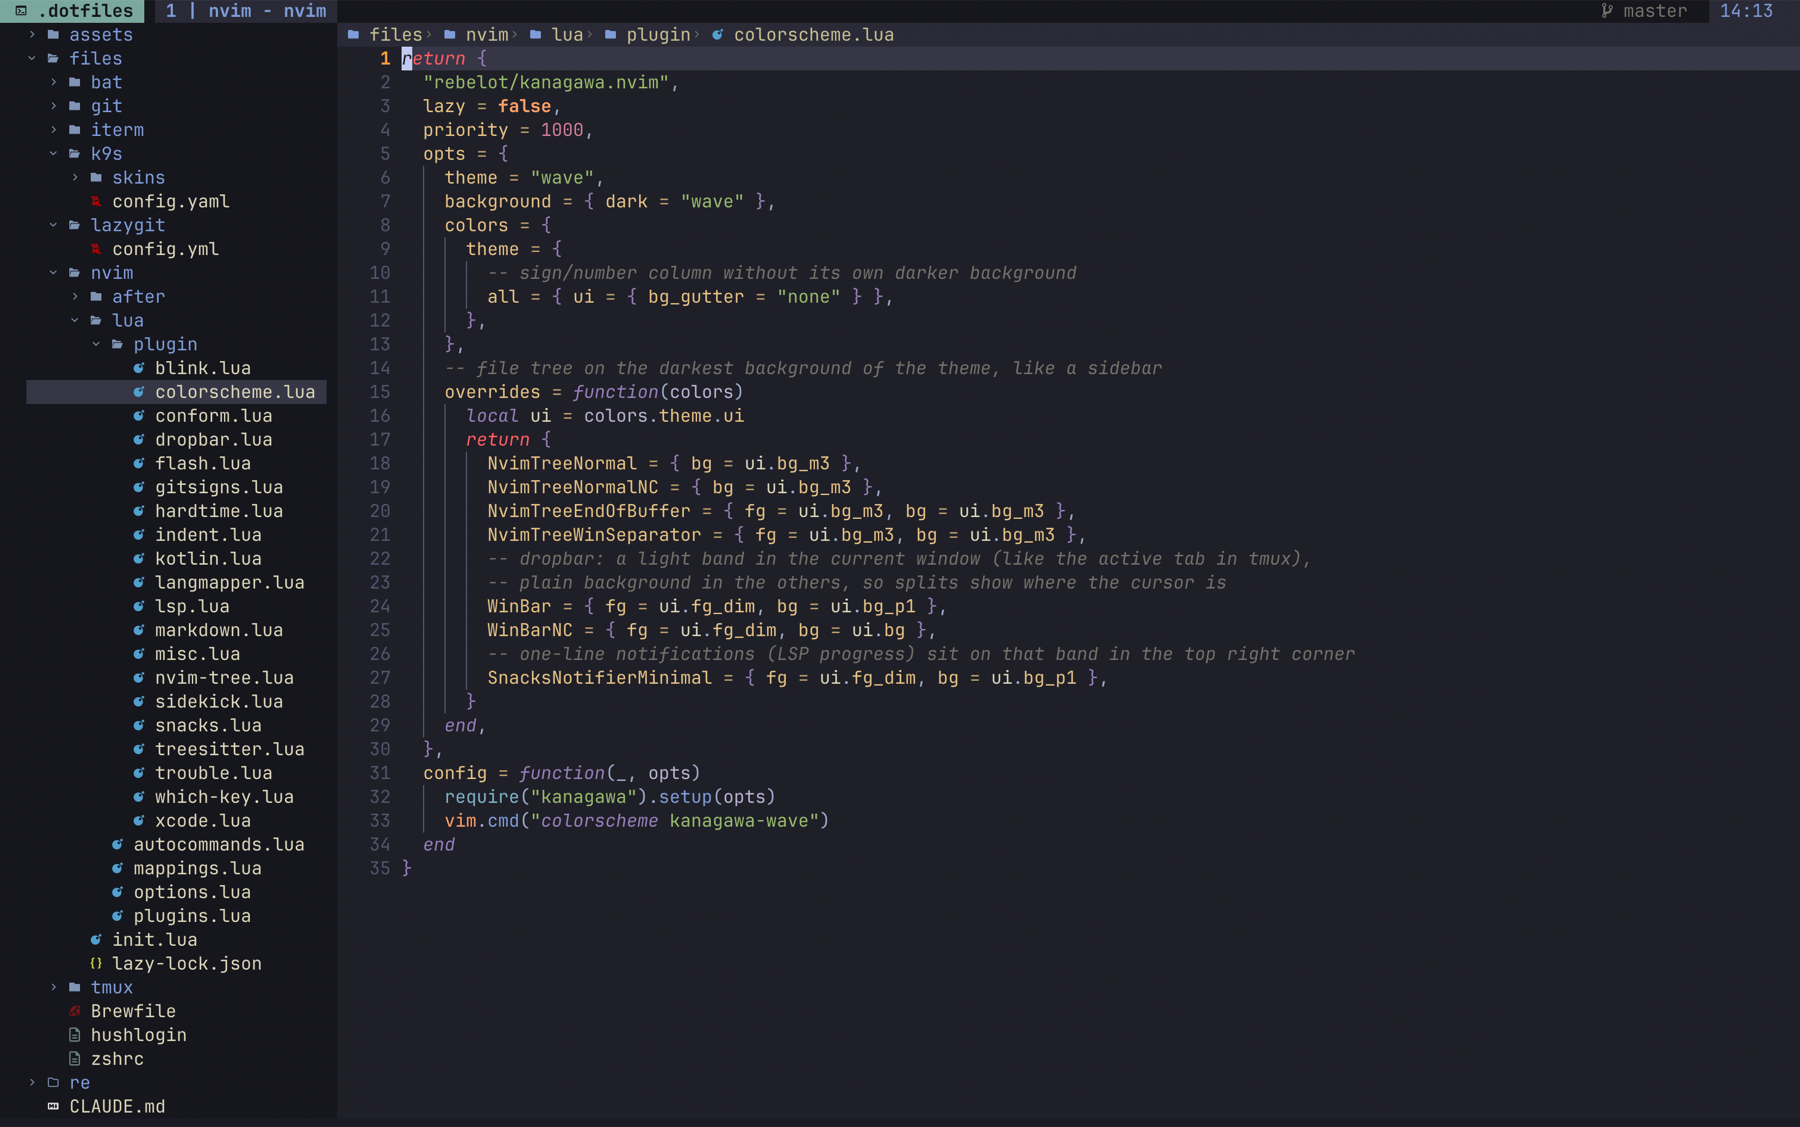
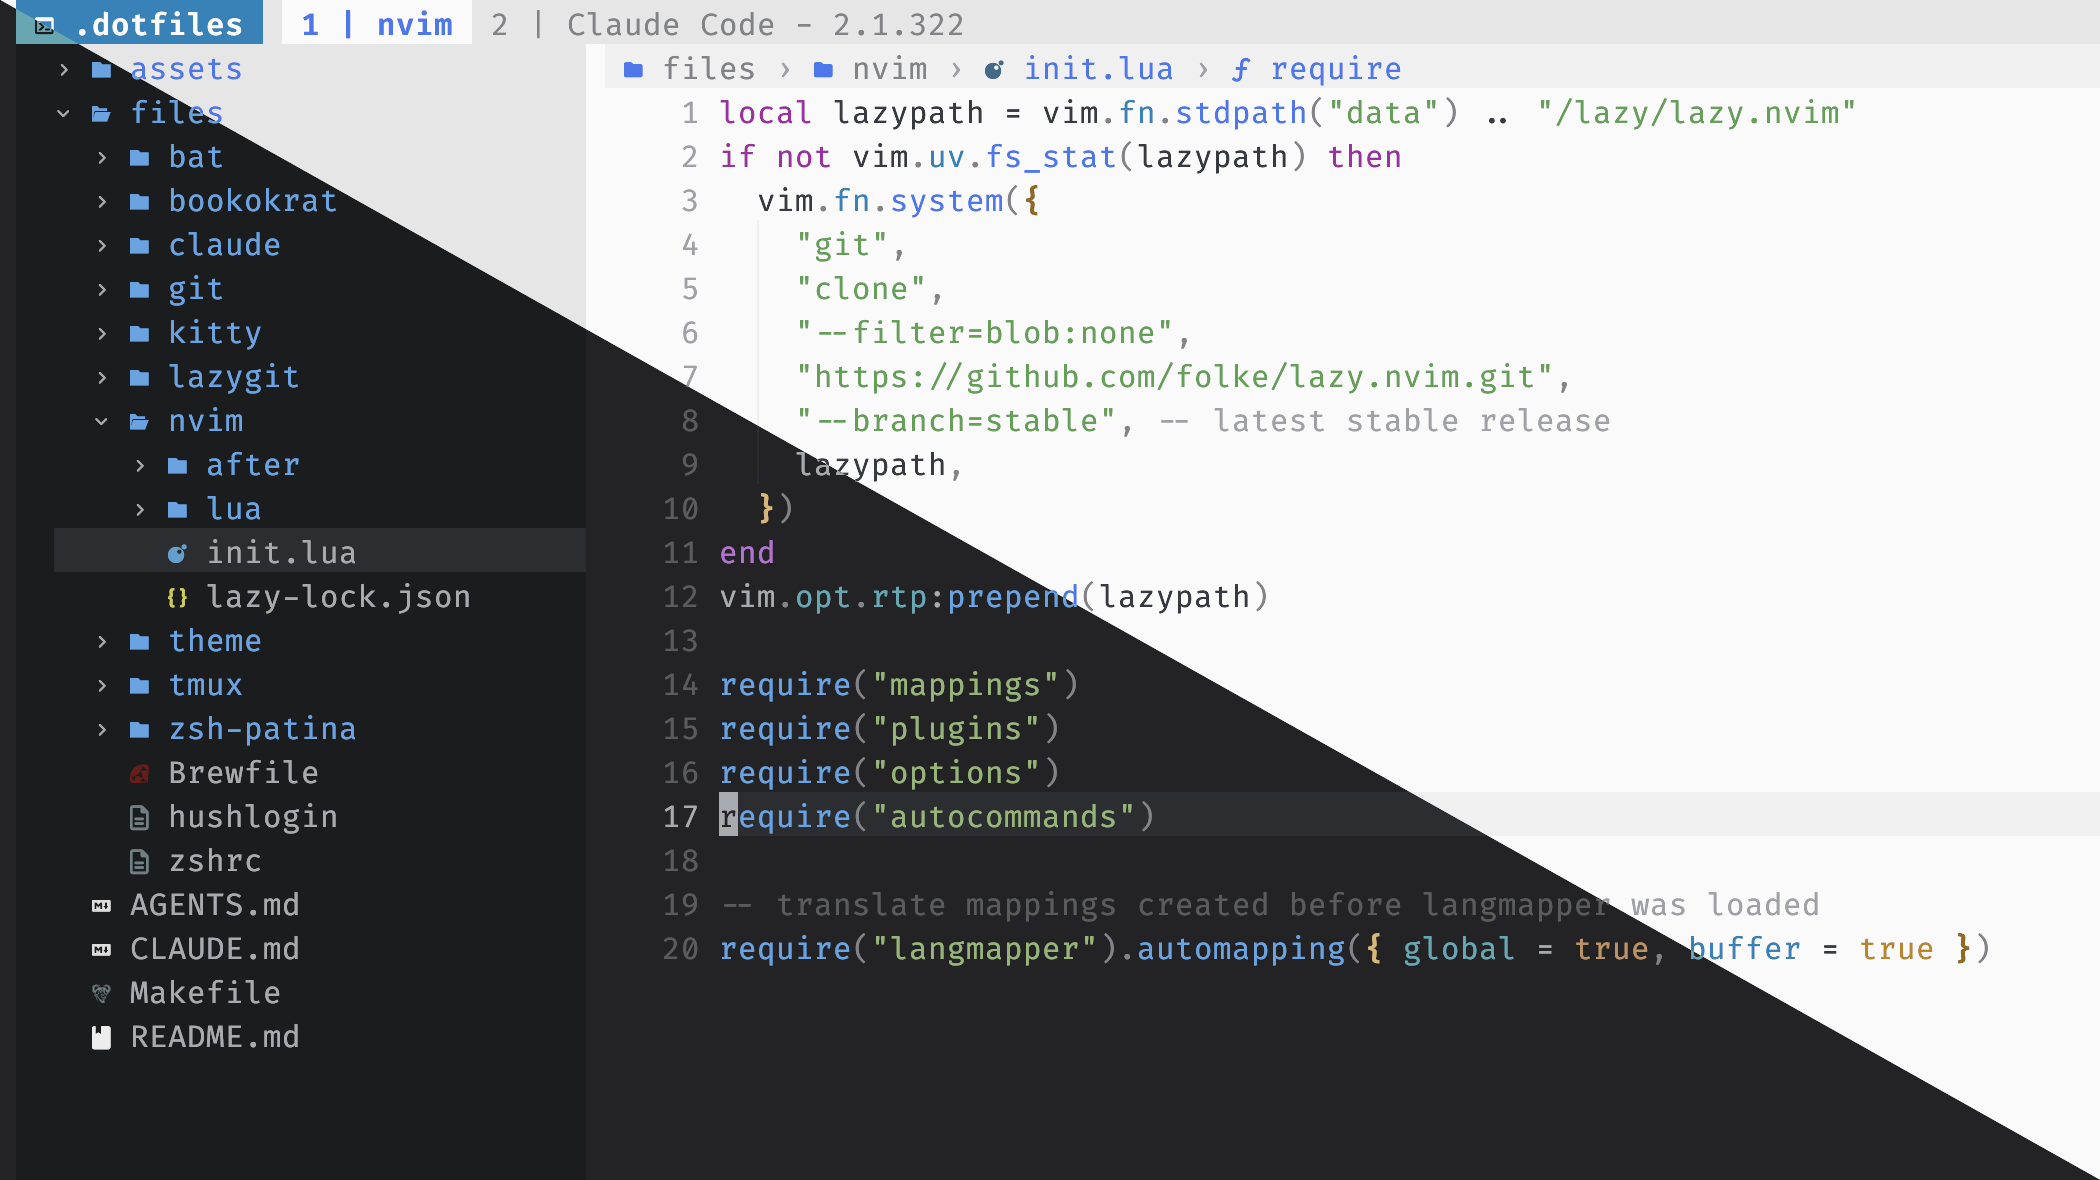
docs: new screenshot with light and dark themes split diagonally

diff --git a/README.md b/README.md
@@ -10,7 +10,7 @@
 <details>
 <summary><b>Скриншот</b></summary>
 <br>
-<img src="assets/screenshot.png" alt="tmux и neovim: дерево файлов, хлебные крошки, тема onedark">
+<img src="assets/screenshot.png" alt="tmux и neovim: дерево файлов, хлебные крошки, светлая и тёмная темы onedark через диагональ">
 </details>
 
 ## Содержание
